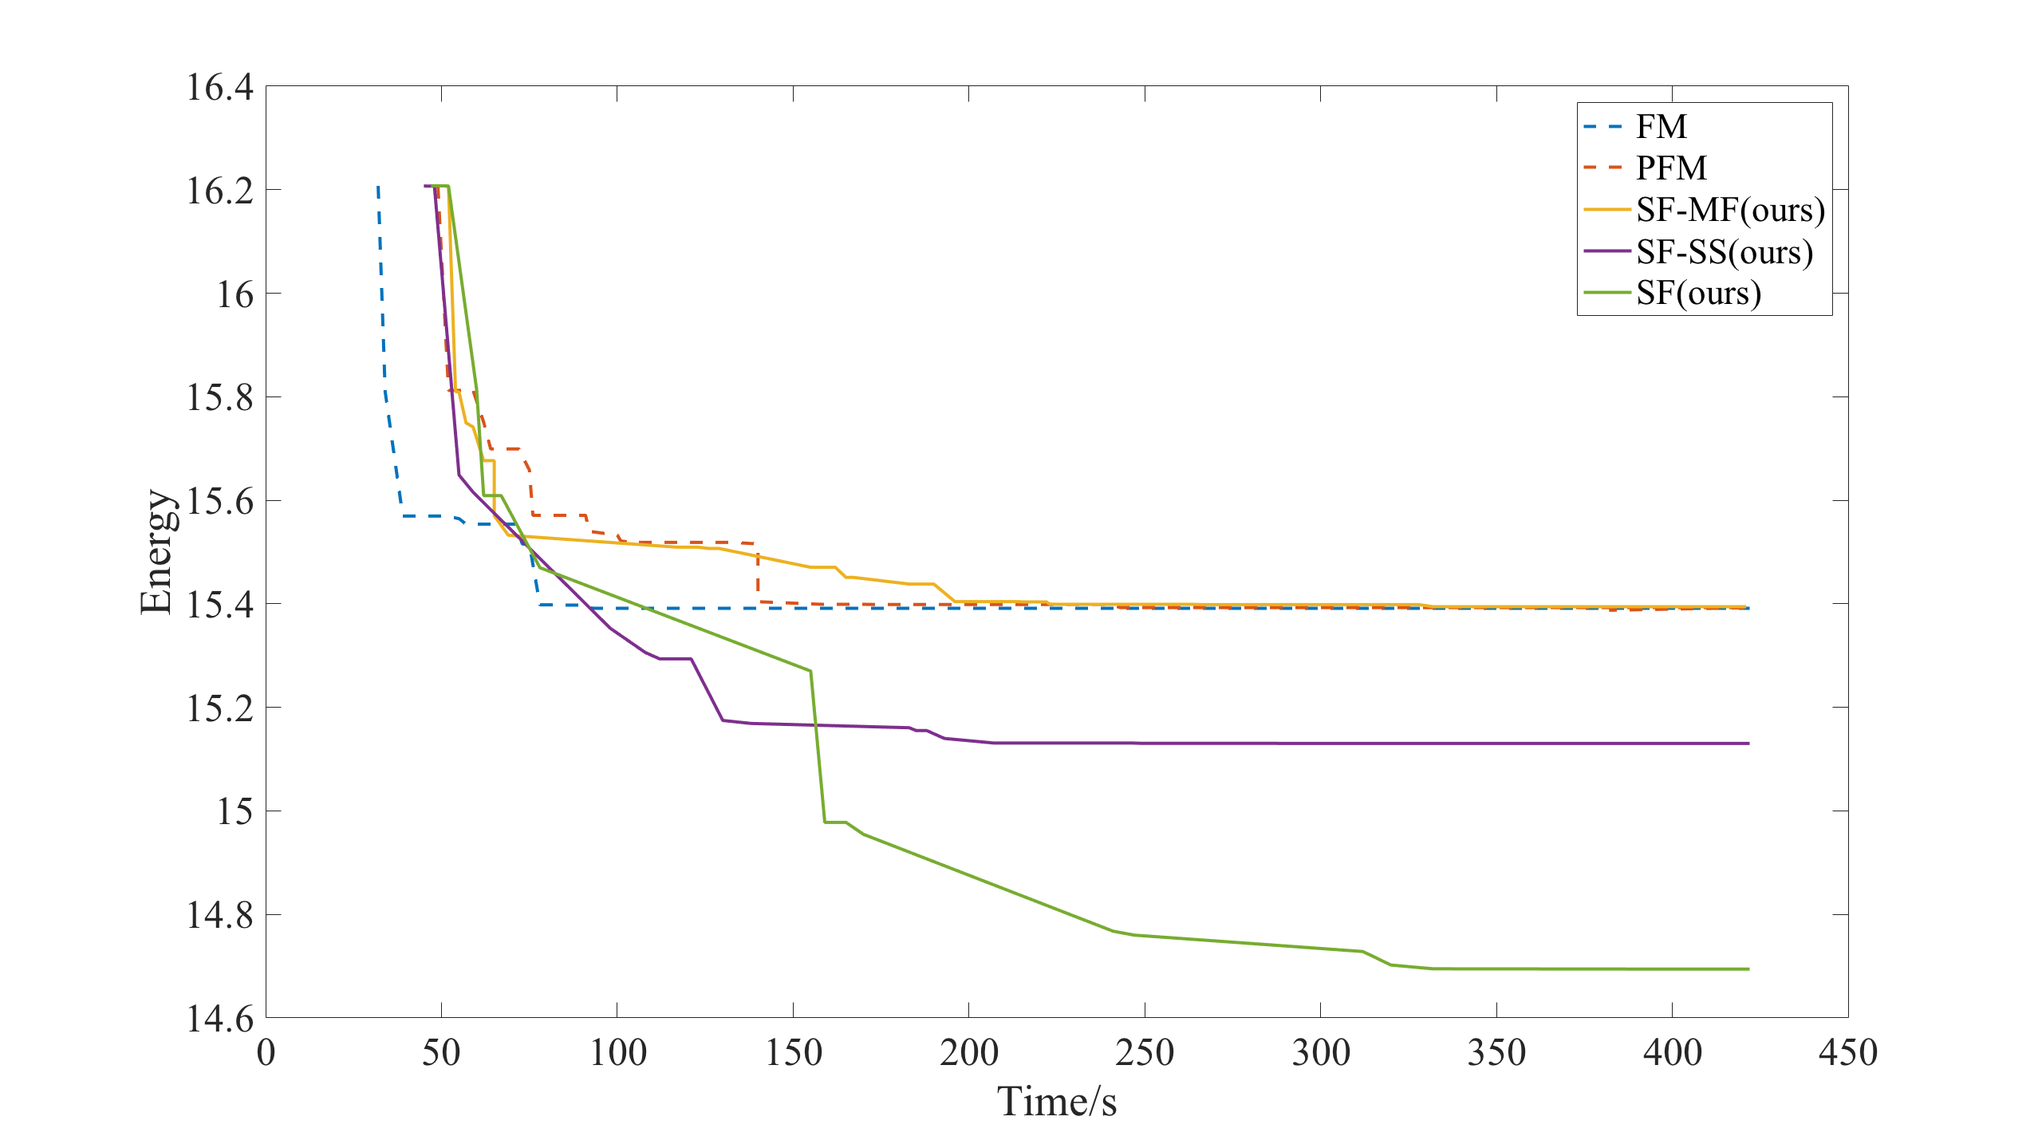
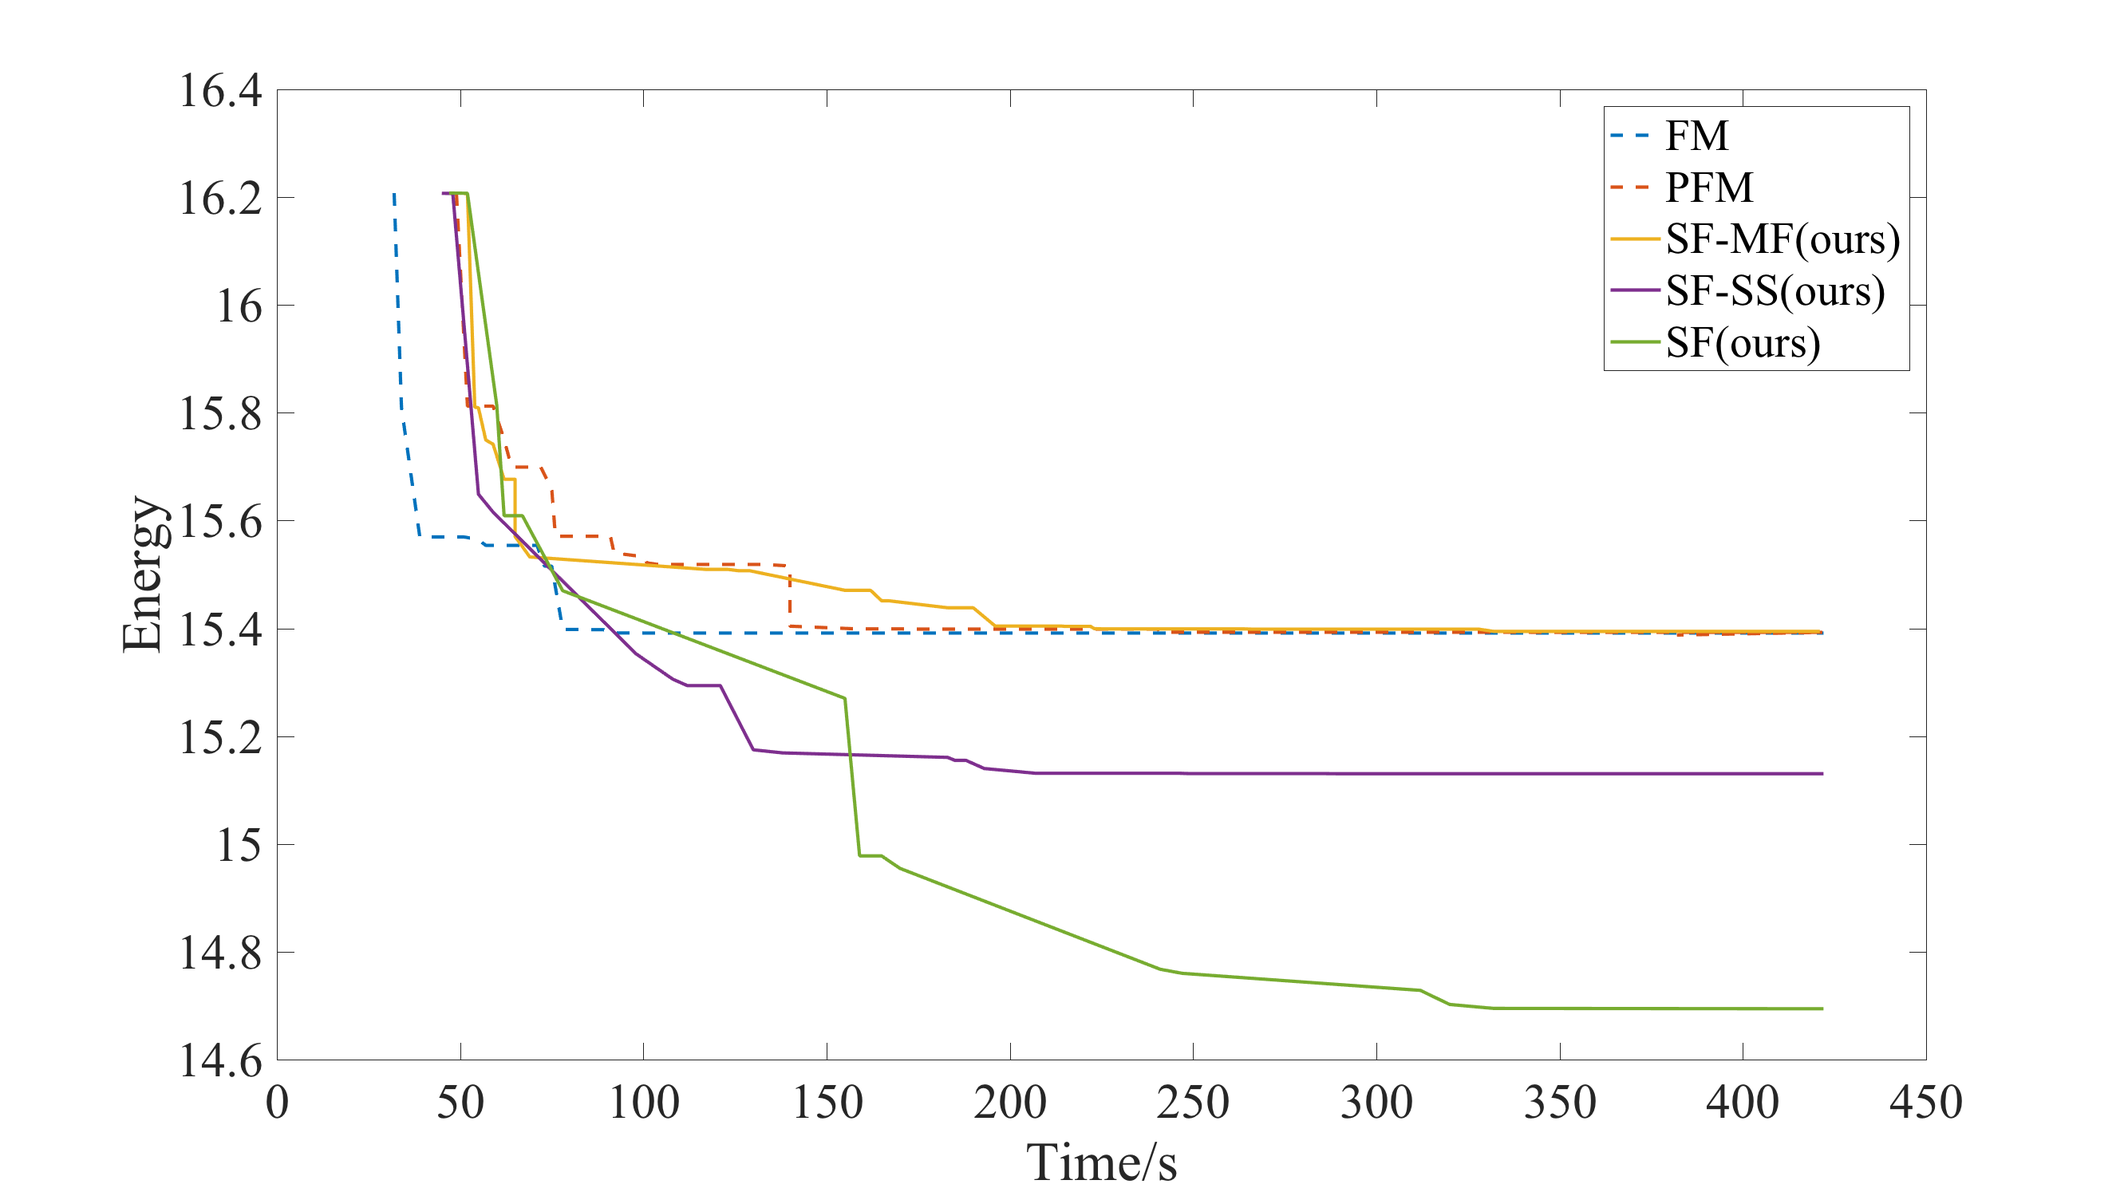
figures

diff --git a/paper/optical_flow.tex b/paper/optical_flow.tex
@@ -1,20 +1,12 @@
 \subsection{Swarm Fusion optical flow}
 
-Fusion Move was first introduced by Lempitsky et al.~\cite{viktor} to
-solve the optical flow problem. \chen{Again, I think Lempitsky's work doesn't
-  aim at the optical flow problem.}
+Fusion Move was first introduced by Lempitsky et al.~\cite{fusion_flow} to
+solve the optical flow problem.
 %Optical flow was the problem, in which the Fusion Move method was first
 %introduced by Lempitsky et al.~\cite{viktor}.
-We copy their problem setting and proposal generation schemes for
-our second problem.
-  We use images from the Middlebury optical flow
-benchmark~\cite{middlebury_optical_flow}.
+We copy their problem setting and use images from the Middlebury optical flow
+benchmark~\cite{middlebury_optical_flow}. We share similar proposal generation schemes with Lempitsky et al ~\cite{fusion_flow}, but instead of the HS algorithm, we use more recent Farneback algorithm and change its pyramid levels from 1 to 5 and use {3, 5, 7} as the parameter polyN. Besides the clustering idea, we add three simple proposal generation schemes based on the current solution as suggested in ~\cite{fusion_flow}. In \textit{shift proposal}, the flow field in the current solution is shifted in either x direction or y direction for either 1, 2 or 3 pixels. In \textit{stagger proposal}, the flow field is shifted by a vector randomly drawed from a Gaussian distribution. In \textit{disturb proposal}, each flow value in the field is indenpendantly shifted by a vector randomly drawed from a Gaussian distribution. We choose schemes randomly when generating proposals.
 
-\chen{I made a mistake that I didn't use the same proposal generation schemes
-  with their work. Instead of HS algorithm, I use Farneback algorithm to generate proposals because it is right there in OpenCV. I also add a bunch of other less useful proposals to have more proposal generation schemes for more clear comparisons..
-  I think we could write in short as follows.}
-
-\chen{We share similar proposal generation schemes with Lempitsky et al ~\cite{viktor}, but instead of the HS algorithm, we use more recent Farneback algorithm and changes its pyramid levels from 1 to 5 and use different polyN {3, 5, 7}. Besides the clustering idea, ~\cite{viktor} also suggests to use more proposals generation schemes based on the current solution. We add three simple proposal generation schemes to better explore the power of our parallel pipeline. In \textit{shift proposal}, the flow field in the current solution is shifted in either x direction or y direction for either 1, 2 or 3 pixels. In \textit{stagger proposal}, the flow field is shifted by a vector randomly drawed from a Gaussian distribution. In \textit{disturb proposal}, each flow value in the field is indenpendantly shifted by a vector randomly drawed from a Gaussian distribution.}
 
 \mysubsubsection{Competing methods}
 
@@ -42,22 +34,18 @@ fair.
 The last contender is the mix of the Hierarchical Fusion and the Fusion
 Move methods, dubbed ``Hierarchical Fusion Method''(HFM), where they
 start from solution proposals as opposed to constant labels. One problem
-of HFM is that the number of necessary solution proposals is unknown
-before solving the problem, and the tree of labels cannot be defined. In
-our experiments, we have manually picked a good number (X \yasu{how many
-  Hang?}) \chen{77 proposals in total (We first generate 11 proposals using LK and Farneback algorithms which do not require current solution and generate other proposals based on these initial proposals).} to generate proposals.
-%
-The fusions are binary in these methods and we have used QPBO.
+of HFM is that we need to generate all proposals at the very beginning in order to build the fusion tree. This undermines the power of fusion move to dynamically generate solution proposals based on current solution. In
+our experiments, we have manually generate 250 proposals at the beginning. We first generate 25 proposals using LK and Farneback algorithms which are independant and generate other proposals based on these initial proposals). The fusions are binary in these methods. % and we have used QPBO.
 
 \mysubsubsection{Swarm fusion architectures}
 
 \noindent
 %The three swarm fusion models (at the bottom of Fig.~\ref{fig:model})
 %are used to evaluate the effectiveness of our method.
-The three swarm architectures in Fig.~\ref{fig:model} (SF-SS, SF-MF, SF)
+The three swarm architectures in Fig.~\ref{fig:model} (SF-MF, SF-SS, SF)
 have been evaluated against the competing methods. The same
 configurations as in the stereo problem have been used for optical flow,
-that is, $\alpha=2$ ($\beta=0$) for SF-SS, the iteration of
+that is, ($\alpha=1$, $\beta=1$, $k=5$) for SF-MF, the iteration of
 ($\alpha=1, \beta=0$) and ($\alpha=0, \beta=1$) for SF-MF, and
 ($\alpha=1, \beta=1$) \chen{($\alpha=2, \beta=0$) and ($\alpha=0, \beta=2$)} for SF.
 %

diff --git a/paper/algorithm.tex b/paper/algorithm.tex
@@ -30,11 +30,13 @@ intermediate solutions generated by the others.
 In our base configuration, the solution pool remembers just the best
 solution from each thread.
 
-SF has three main parameters $\alpha_i$, $\beta_i$ (for each thread
+SF has two main parameters $\alpha_i$, $\beta_i$ (for each thread
 $T_i$), determining its processing flow: In each fusion step, a thread
-collects $\alpha_i$ solution proposals from the proposal pool \chen{A proposal pool sounds confusing. We often don't really maintain such a pool as many proposals are generated dynamically based on current solution. We just have certain strategies right there and in each iteration, we pick some strategies to generate proposals on the fly. This is different with the solution pool which is really there.}
-$\beta_i$ solutions from the solution pool, based on a user-defined
-strategy or at random to be simple.
+generates $\alpha_i$ solution proposals using its proposal generator, and collects
+%\chen{A proposal pool sounds confusing. We often don't really maintain such a pool as many proposals are generated dynamically based on current solution. We just have certain strategies right there and in each iteration, we pick some strategies to generate proposals on the fly. This is different with the solution pool which is really there.}
+$\beta_i$ or $0$ solutions from the solution pool, based on a user-defined
+strategy or at random to be simple. (The value of $\alpha_i$ and $\beta_i$ can vary in each iteration to encourage different behaviors.) The thread then fuse all these solutions
+together to find a solution with lower energy state and update the solution pool accordingly.
 %
 % One can further customize how to pick certain proposal generation
 % schemes (as in ~\cite{delong}) or solutions.
@@ -69,10 +71,10 @@ processing architectures as shown in Figure~\ref{fig:model}.
 \end{figure}
 %
 The bottom right architecture is the most general one, in which threads
-always fuse some solution proposals and \chen{or?} some concurrent solutions (i.e.,
+conduct multi-way fusion of either solution proposals, or some concurrent solutions, or both (i.e.,
 $\alpha\ne 0, \beta \ne 0$).
 %
-Each fusion is multi-way (not binary) and the energy is not submodular
+And the energy is not submodular
 in general, for which effective inference techniques such as
 TRW-S~\cite{TRW-S,opengm} exist.
 %, and hence we use TRW~\cite{kolmogorov} for the fusion, while any other
@@ -86,7 +88,7 @@ QPBO~\cite{second_order_stereo}.
 Note that the threads appear synchronized in the figure for a
 illustration purpose. In practice, all the threads run asynchronously
 with a (read-write) lock on the data in the two pools (See
-Algorithm~\ref{algorithm:sf}).
+Algorithm~\ref{algorithm:sf}). The asynchronous computing further unleashes the power of parallism.
 %The asynchronous processing could be difficult for cloud parallel
 %computing.
 %
@@ -100,17 +102,17 @@ Algorithm~\ref{algorithm:sf}).
   \Procedure{} {$\alpha, \beta$}
   \State $\mathcal{S}_{pool} \leftarrow \emptyset$ //
   Solution pool
-  \State Initialize $\mathcal{P}_{pool}$ // Proposal pool
+  %\State Initialize $\mathcal{P}_{pool}$ // Proposal pool
   \ForEach{thread $T_i$}
   \State Initialize its solution $S_i$
   \EndFor
   \State
   \ForEach{thread $T_i$ in parallel till convergence}
-  \State Pick $\alpha$ solution proposals $\mathcal{P}\subset \mathcal{P_{\mbox{pool}}}$
+  \State Generate $\alpha$ solution proposals $\mathcal{P}$ %\subset \mathcal{P_{\mbox{pool}}}$
   \State Pick $\beta$ solutions $\mathcal{S} \subset \mathcal{S_{\mbox{pool}}}$
   \State $S_i \leftarrow \mbox{Fuse}(S_i, \mathcal{P}, \mathcal{S})$
   \State Replaces the solution in $\mathcal{S}_{pool}$ with $S_i$
-  \State [ Generates proposals and update $\mathcal{P}_{pool}$, if necessary ]
+  %\State [ Generates proposals and update $\mathcal{P}_{pool}$, if necessary ]
   \EndFor
   \EndProcedure
  \end{algorithmic}
@@ -127,7 +129,7 @@ Fusion method (SF). AE can be realized by setting $(\alpha=1, \beta=0)$ and
 restricting the proposal generation to constant labels with a single
 thread. Same goes for FM, this time, without the restriction on the
 proposal generation scheme. PAE is realized by setting
-$(\alpha=1,\beta=1)$ \chen{$(\alpha=1,\beta=0)$} with multiple threads, again with a restriction on
+$(\alpha=1,\beta=0)$ with multiple threads, again with a restriction on
 the proposal generation scheme (the last sequential fusion in PAE is
 realized by $(\alpha=0, \beta=1)$ with a single thread).
 %
@@ -151,7 +153,7 @@ $T_i$.
 
 
 % \begin{figure}[tb]
-%  \includegraphics[width=\columnwidth]{figure/model2.pdf}
+%   \includegraphics[width=\columnwidth]{figure/model2.pdf}
 %  \caption{Base Swarm Fusion architecture.}\label{fig:base}
 % \end{figure}
 

diff --git a/OpticalFlow/Statistics/plotValues.m b/OpticalFlow/Statistics/plotValues.m
@@ -11,11 +11,11 @@ full = convertValues(full_raw_values, 0);
 hierarchy_raw_values = load('output_values_hierarchy');
 hierarchy = convertValues(hierarchy_raw_values, 0);
 
-dlmwrite('statistics_sequential.txt', sequential, '\t');
-dlmwrite('statistics_Victor.txt', Victor, '\t');
-dlmwrite('statistics_solution_exchange.txt', solution_exchange, '\t');
-dlmwrite('statistics_multiway.txt', multiway, '\t');
-dlmwrite('statistics_full.txt', full, '\t');
+%dlmwrite('statistics_sequential.txt', sequential, '\t');
+%dlmwrite('statistics_Victor.txt', Victor, '\t');
+%dlmwrite('statistics_solution_exchange.txt', solution_exchange, '\t');
+%dlmwrite('statistics_multiway.txt', multiway, '\t');
+%lmwrite('statistics_full.txt', full, '\t');
 
 
 Victor_by_thread = {4};
@@ -38,17 +38,20 @@ end
 %figureHandle = gcf;
 
 set(0, 'DefaultAxesFontName', 'Times New Roman');
-set(0, 'DefaultAxesFontSize', 25);
+set(0, 'DefaultAxesFontSize', 30);
 set(0, 'DefaultTextFontName', 'Times New Roman');
-set(0, 'DefaultTextFontSize', 25);
+set(0, 'DefaultTextFontSize', 30);
 
 fig_1 = figure(1);
 plot(sequential(:, 1), log(sequential(:, 2)), '--', Victor(:, 1), log(Victor(:, 2)), '--', hierarchy(:, 1), log(hierarchy(:, 2)), '--', solution_exchange(:, 1), log(solution_exchange(:, 2)), multiway(:, 1), log(multiway(:, 2)), full(:, 1), log(full(:, 2)), 'LineWidth', 2);
-l = legend('FM', 'PFM', 'HF', 'SF-MF(ours)', 'SF-SS(ours)', 'SF(ours)');
+l = legend('FM', 'PFM', 'HFM', 'SF-MF(ours)', 'SF-SS(ours)', 'SF(ours)');
 xlabel('Time/s');
 ylabel('Energy');
 %ylim([8, 9.8]);
 fig_1.Position = [500, 500, 1280, 720];
+
+print(fig_1, '../../paper/figure/optical_flow_convergence', '-dpng');
+
 fig_2 = figure(2);
 %plot(Victor_by_thread{1}(:, 1), log(Victor_by_thread{1}(:, 2)), '-+m', Victor_by_thread{2}(:, 1), log(Victor_by_thread{2}(:, 2)), '-om', Victor_by_thread{3}(:, 1), log(Victor_by_thread{3}(:, 2)), '-*m', Victor_by_thread{4}(:, 1), log(Victor_by_thread{4}(:, 2)), '-xm', solution_exchange_by_thread{1}(:, 1), log(solution_exchange_by_thread{1}(:, 2)), '-+b', solution_exchange_by_thread{2}(:, 1), log(solution_exchange_by_thread{2}(:, 2)), '-+b', solution_exchange_by_thread{3}(:, 1), log(solution_exchange_by_thread{3}(:, 2)), '-*b', solution_exchange_by_thread{4}(:, 1), log(solution_exchange_by_thread{4}(:, 2)), '-xb', 'LineWidth', 2)
 plot(Victor_by_thread{1}(:, 1), log(Victor_by_thread{1}(:, 2)), Victor_by_thread{2}(:, 1), log(Victor_by_thread{2}(:, 2)), Victor_by_thread{3}(:, 1), log(Victor_by_thread{3}(:, 2)), Victor_by_thread{4}(:, 1), log(Victor_by_thread{4}(:, 2)), 'LineWidth', 2);
@@ -56,11 +59,18 @@ legend('Thread 1', 'Thread 2', 'Thread 3', 'Thread 4');
 xlabel('Time/s');
 ylabel('Energy');
 ylim([8, 9.6]);
-fig_2.Position = [500, 500, 1280, 720];
+fig_2.Position = [500, 500, 640, 500];
+
+print(fig_2, '../../paper/figure/optical_flow_PFM_threads', '-dpng');
+
 fig_3 = figure(3);
 plot(solution_exchange_by_thread{1}(:, 1), log(solution_exchange_by_thread{1}(:, 2)), solution_exchange_by_thread{2}(:, 1), log(solution_exchange_by_thread{2}(:, 2)), solution_exchange_by_thread{3}(:, 1), log(solution_exchange_by_thread{3}(:, 2)), solution_exchange_by_thread{4}(:, 1), log(solution_exchange_by_thread{4}(:, 2)), 'LineWidth', 2);
 legend('Thread 1', 'Thread 2', 'Thread 3', 'Thread 4');
 xlabel('Time/s');
 ylabel('Energy');
 ylim([8, 9.6]);
-fig_3.Position = [500, 500, 1280, 720];
+fig_3.Position = [500, 500, 640, 500];
+
+print(fig_3, '../../paper/figure/optical_flow_SF_MF_threads', '-dpng');
+
+

diff --git a/LayerDepthMap/Statistics/plotValues.m b/LayerDepthMap/Statistics/plotValues.m
@@ -32,6 +32,10 @@ for (thread = 0:3)
 end
 %dlmwrite('thread_solution_exchange.txt', solution_exchange_by_thread, '\t');
 
+set(0, 'DefaultAxesFontName', 'Times New Roman');
+set(0, 'DefaultAxesFontSize', 30);
+set(0, 'DefaultTextFontName', 'Times New Roman');
+set(0, 'DefaultTextFontSize', 30);
 
 %plot(sequential(:, 1), sequential(:, 2), '-xm', Victor(:, 1), Victor(:,
 %2), '-.c', solution_exchange(:, 1), solution_exchange(:, 2), '-*b', multiway(:, 1), multiway(:, 2), '-og', full(:, 1), full(:, 2), '-+r');\
@@ -42,6 +46,9 @@ xlabel('Time/s');
 ylabel('Energy');
 %ylim([8, 9.8]);
 fig_1.Position = [500, 500, 1280, 720];
+
+print(fig_1, '../../paper/figure/layered_depthmap_convergence', '-dpng');
+
 fig_2 = figure(2);
 %plot(Victor_by_thread{1}(:, 1), log(Victor_by_thread{1}(:, 2)), '-+m', Victor_by_thread{2}(:, 1), log(Victor_by_thread{2}(:, 2)), '-om', Victor_by_thread{3}(:, 1), log(Victor_by_thread{3}(:, 2)), '-*m', Victor_by_thread{4}(:, 1), log(Victor_by_thread{4}(:, 2)), '-xm', solution_exchange_by_thread{1}(:, 1), log(solution_exchange_by_thread{1}(:, 2)), '-+b', solution_exchange_by_thread{2}(:, 1), log(solution_exchange_by_thread{2}(:, 2)), '-+b', solution_exchange_by_thread{3}(:, 1), log(solution_exchange_by_thread{3}(:, 2)), '-*b', solution_exchange_by_thread{4}(:, 1), log(solution_exchange_by_thread{4}(:, 2)), '-xb', 'LineWidth', 2)
 plot(Victor_by_thread{1}(:, 1), log(Victor_by_thread{1}(:, 2)), Victor_by_thread{2}(:, 1), log(Victor_by_thread{2}(:, 2)), Victor_by_thread{3}(:, 1), log(Victor_by_thread{3}(:, 2)), Victor_by_thread{4}(:, 1), log(Victor_by_thread{4}(:, 2)), 'LineWidth', 2);
@@ -50,7 +57,10 @@ xlabel('Time/s');
 ylabel('Energy');
 ylim([15.3, 16.3]);
 xlim([0, 450]);
-fig_2.Position = [500, 500, 1280, 720];
+fig_2.Position = [500, 500, 640, 500];
+
+print(fig_2, '../../paper/figure/layered_depthmap_PFM_threads', '-dpng');
+
 fig_3 = figure(3);
 plot(solution_exchange_by_thread{1}(:, 1), log(solution_exchange_by_thread{1}(:, 2)), solution_exchange_by_thread{2}(:, 1), log(solution_exchange_by_thread{2}(:, 2)), solution_exchange_by_thread{3}(:, 1), log(solution_exchange_by_thread{3}(:, 2)), solution_exchange_by_thread{4}(:, 1), log(solution_exchange_by_thread{4}(:, 2)), 'LineWidth', 2);
 legend('Thread 1', 'Thread 2', 'Thread 3', 'Thread 4');
@@ -58,4 +68,7 @@ xlabel('Time/s');
 ylabel('Energy');
 ylim([15.3, 16.3]);
 xlim([0, 450]);
-fig_3.Position = [500, 500, 1280, 720];
+fig_3.Position = [500, 500, 640, 500];
+
+print(fig_3, '../../paper/figure/layered_depthmap_SF_MF_threads', '-dpng');
+

diff --git a/LayerDepthMap/Statistics/plotValuesAlpha.m b/LayerDepthMap/Statistics/plotValuesAlpha.m
@@ -30,17 +30,22 @@ multiway_11 = convertValues(multiway_11_raw_values, 0);
 % dlmwrite('statistics_multiway.txt', multiway, '\t');
 % dlmwrite('statistics_full.txt', full, '\t');
 
-
+set(0, 'DefaultAxesFontName', 'Times New Roman');
+set(0, 'DefaultAxesFontSize', 30);
+set(0, 'DefaultTextFontName', 'Times New Roman');
+set(0, 'DefaultTextFontSize', 30);
 
 %plot(sequential(:, 1), sequential(:, 2), '-xm', Victor(:, 1), Victor(:,
 %2), '-.c', solution_exchange(:, 1), solution_exchange(:, 2), '-*b', multiway(:, 1), multiway(:, 2), '-og', full(:, 1), full(:, 2), '-+r');\
-figure(1);
+fig = figure(1);
 %plot(full(:, 1), log(full(:, 2)), 'c', full_5_3(:, 1), log(full_5_3(:, 2)), 'b', full_7_3(:, 1), log(full_7_3(:, 2)), 'g', full_9_3(:, 1), log(full_9_3(:, 2)), 'r');
 plot(Victor(:, 1), log(Victor(:, 2)), multiway(:, 1), log(multiway(:, 2)), multiway_5(:, 1), log(multiway_5(:, 2)), multiway_7(:, 1), log(multiway_7(:, 2)), multiway_9(:, 1), log(multiway_9(:, 2)), multiway_11(:, 1), log(multiway_11(:, 2)), 'LineWidth', 2);
 legend('\alpha=1', '\alpha=3', '\alpha=5', '\alpha=7', '\alpha=9', '\alpha=11');
 xlabel('Time/s');
 ylabel('Energy');
 fig.Position = [500, 500, 1280, 720];
+
+print(fig, '../../paper/figure/layered_depthmap_by_alpha', '-dpng');
 
 
 

diff --git a/OpticalFlow/Statistics/plotValuesBeta.m b/OpticalFlow/Statistics/plotValuesBeta.m
@@ -15,7 +15,10 @@ solution_exchange_3_other = convertValues(solution_exchange_3_other_raw_values, 
 % dlmwrite('statistics_multiway.txt', multiway, '\t');
 % dlmwrite('statistics_full.txt', full, '\t');
 
-
+set(0, 'DefaultAxesFontName', 'Times New Roman');
+set(0, 'DefaultAxesFontSize', 30);
+set(0, 'DefaultTextFontName', 'Times New Roman');
+set(0, 'DefaultTextFontSize', 30);
 
 %plot(sequential(:, 1), sequential(:, 2), '-xm', Victor(:, 1), Victor(:,
 %2), '-.c', solution_exchange(:, 1), solution_exchange(:, 2), '-*b', multiway(:, 1), multiway(:, 2), '-og', full(:, 1), full(:, 2), '-+r');\
@@ -26,4 +29,5 @@ xlabel('Time/s');
 ylabel('Energy');
 fig.Position = [500, 500, 1280, 720];
 
+print(fig, '../../paper/figure/optical_flow_by_beta', '-dpng');
 

diff --git a/OpticalFlow/Statistics/plotValuesInterval.m b/OpticalFlow/Statistics/plotValuesInterval.m
@@ -16,7 +16,10 @@ solution_exchange_9 = convertValues(solution_exchange_9_raw_values, 0);
 % dlmwrite('statistics_multiway.txt', multiway, '\t');
 % dlmwrite('statistics_full.txt', full, '\t');
 
-
+set(0, 'DefaultAxesFontName', 'Times New Roman');
+set(0, 'DefaultAxesFontSize', 30);
+set(0, 'DefaultTextFontName', 'Times New Roman');
+set(0, 'DefaultTextFontSize', 30);
 
 %plot(sequential(:, 1), sequential(:, 2), '-xm', Victor(:, 1), Victor(:,
 %2), '-.c', solution_exchange(:, 1), solution_exchange(:, 2), '-*b', multiway(:, 1), multiway(:, 2), '-og', full(:, 1), full(:, 2), '-+r');\
@@ -27,3 +30,4 @@ xlabel('Time/s');
 ylabel('Energy');
 fig.Position = [500, 500, 1280, 720];
 
+print(fig, '../../paper/figure/optical_flow_by_interval', '-dpng');

diff --git a/paper/results.tex b/paper/results.tex
@@ -46,7 +46,8 @@ our swarm fusion method.
   \caption{}\label{fig:layered_depthmap_by_alpha}
 \end{figure}
 \begin{figure}[tb]
-  \includegraphics[width=\columnwidth]{figure/optical_flow_by_threads.png}
+  \includegraphics[width=\columnwidth * 0.5]{figure/optical_flow_PFM_threads.png}
+  \includegraphics[width=\columnwidth * 0.5]{figure/optical_flow_SF_MF_threads.png}
   \caption{}\label{fig:optical_flow_by_threads}
 \end{figure}
 \begin{figure}[tb]

diff --git a/paper/introduction.tex b/paper/introduction.tex
@@ -1,5 +1,4 @@
 \section{Introduction}
-\hang{Should we use $\alpha$-expansion instead of alpha-expansion?}
 
 Parallel computation has changed the field of computing.  In the 90s,
 most processors had single cores. In 2016, most processors have multiple
